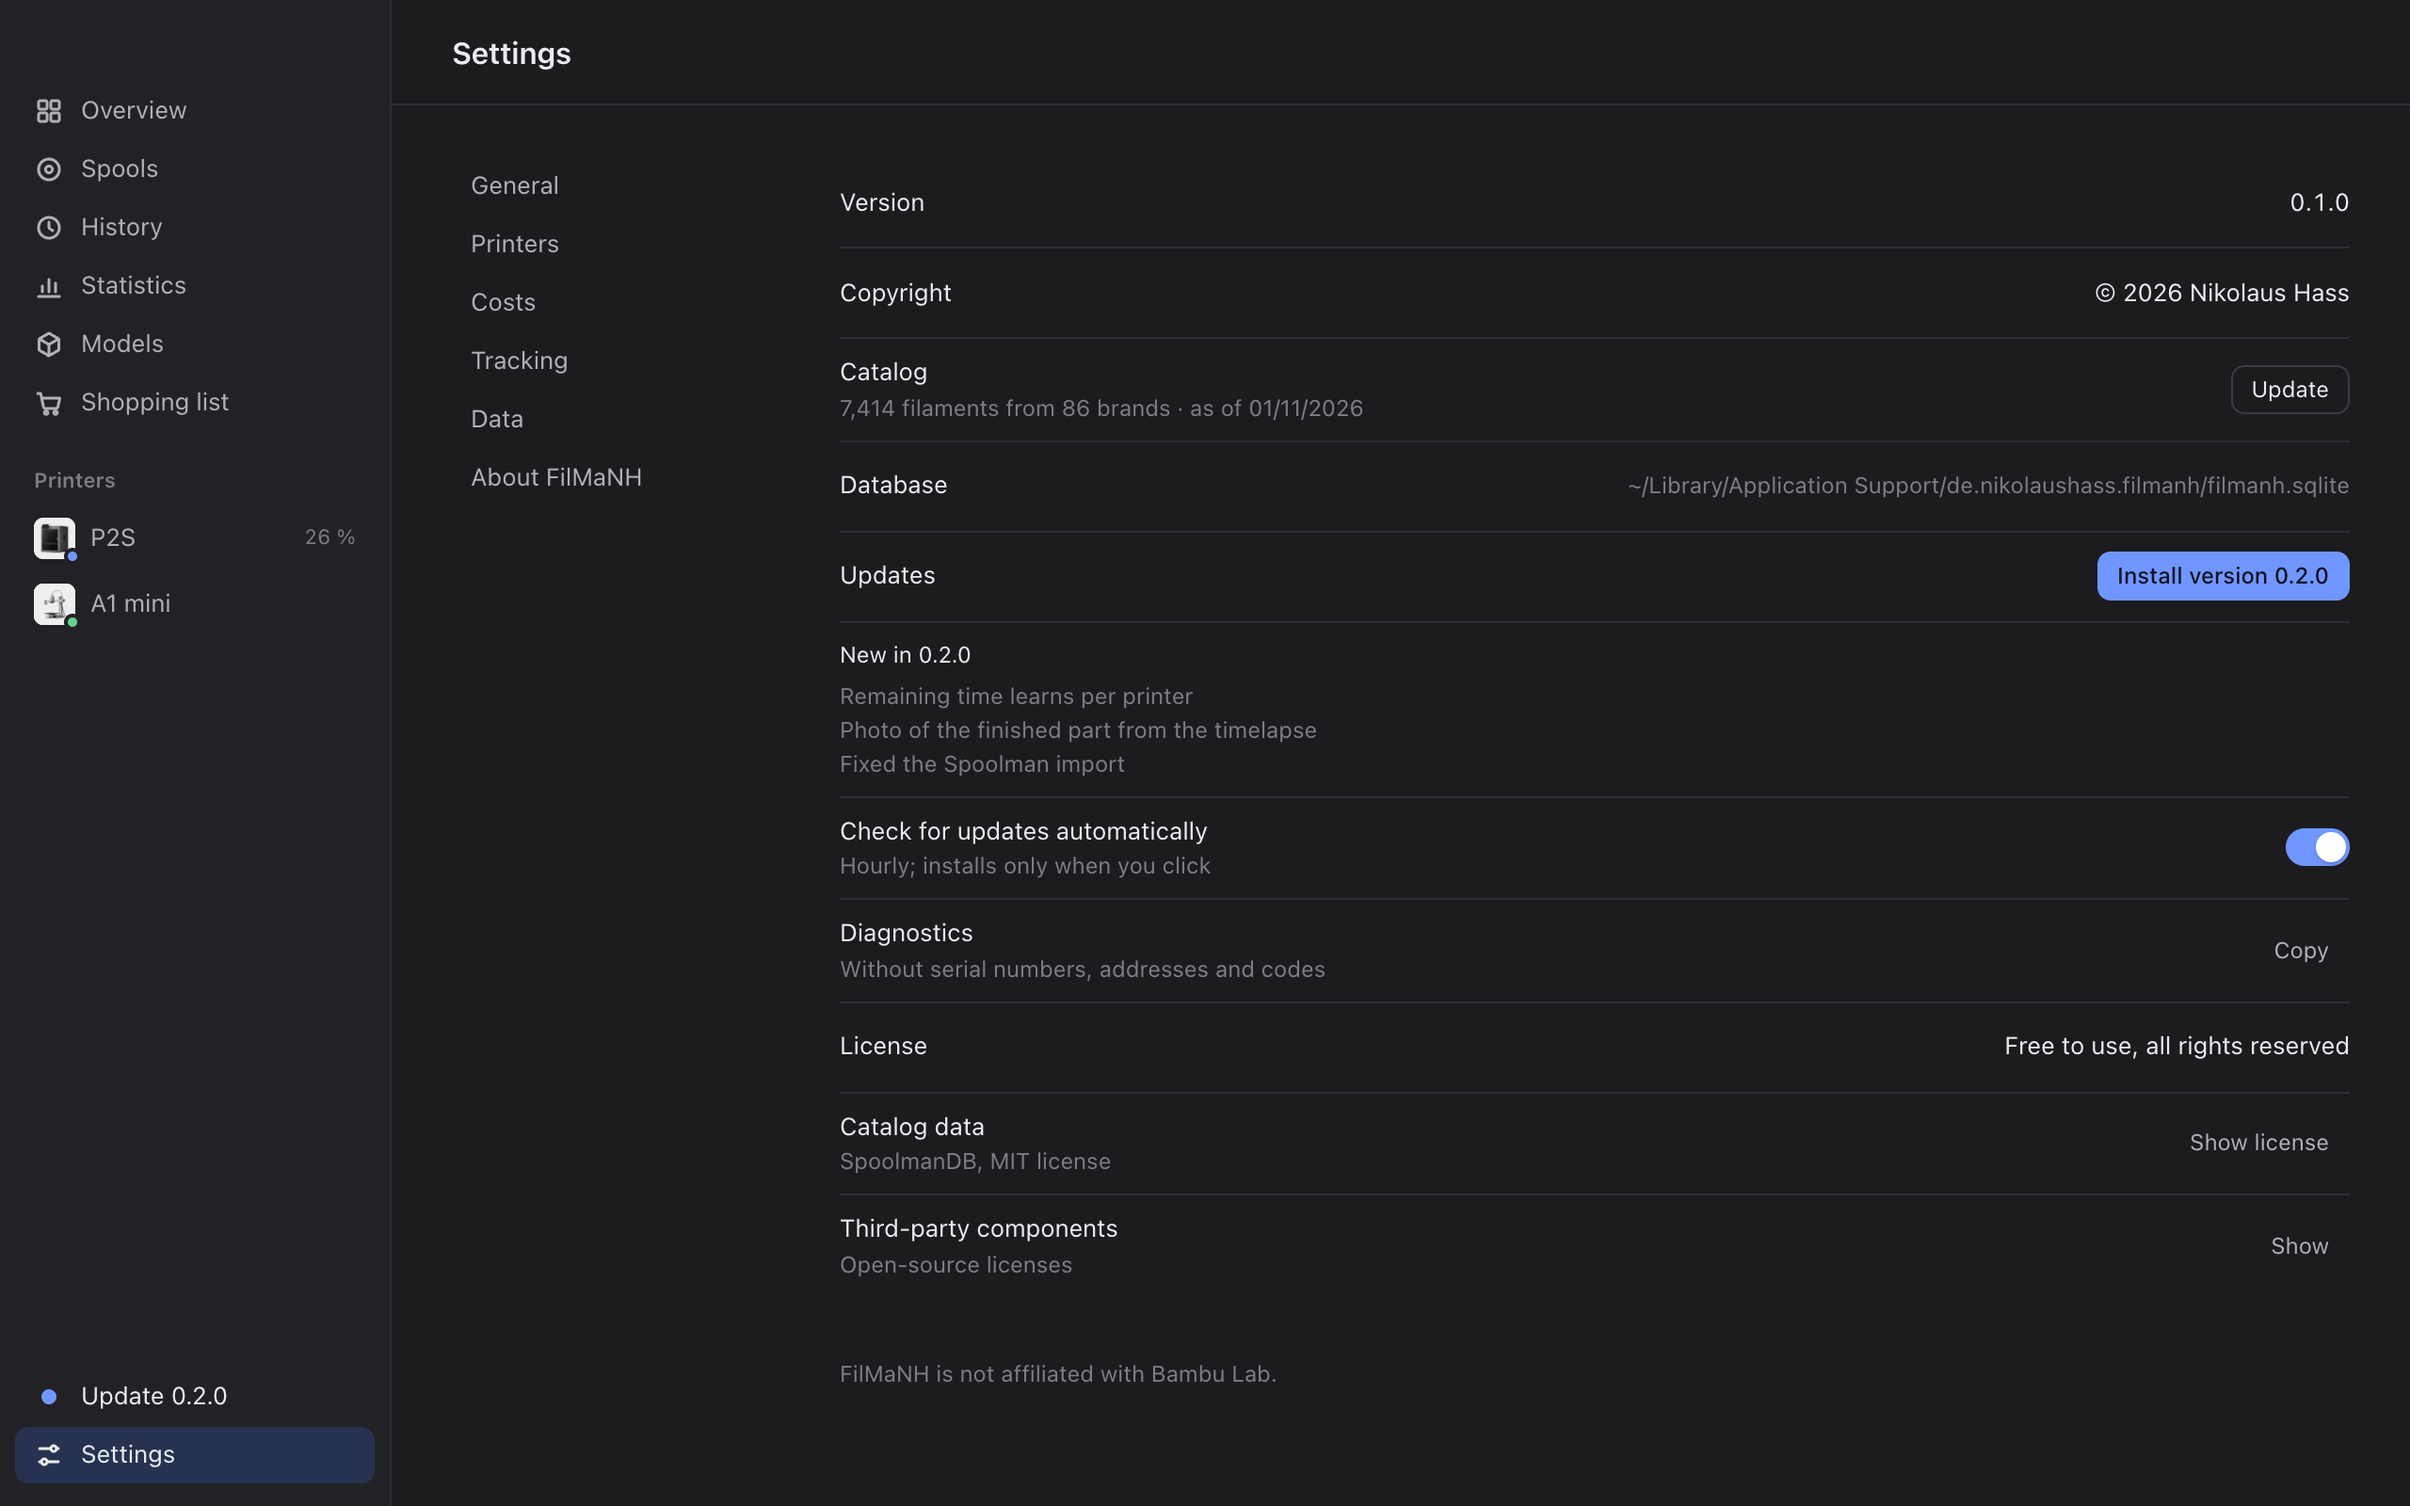
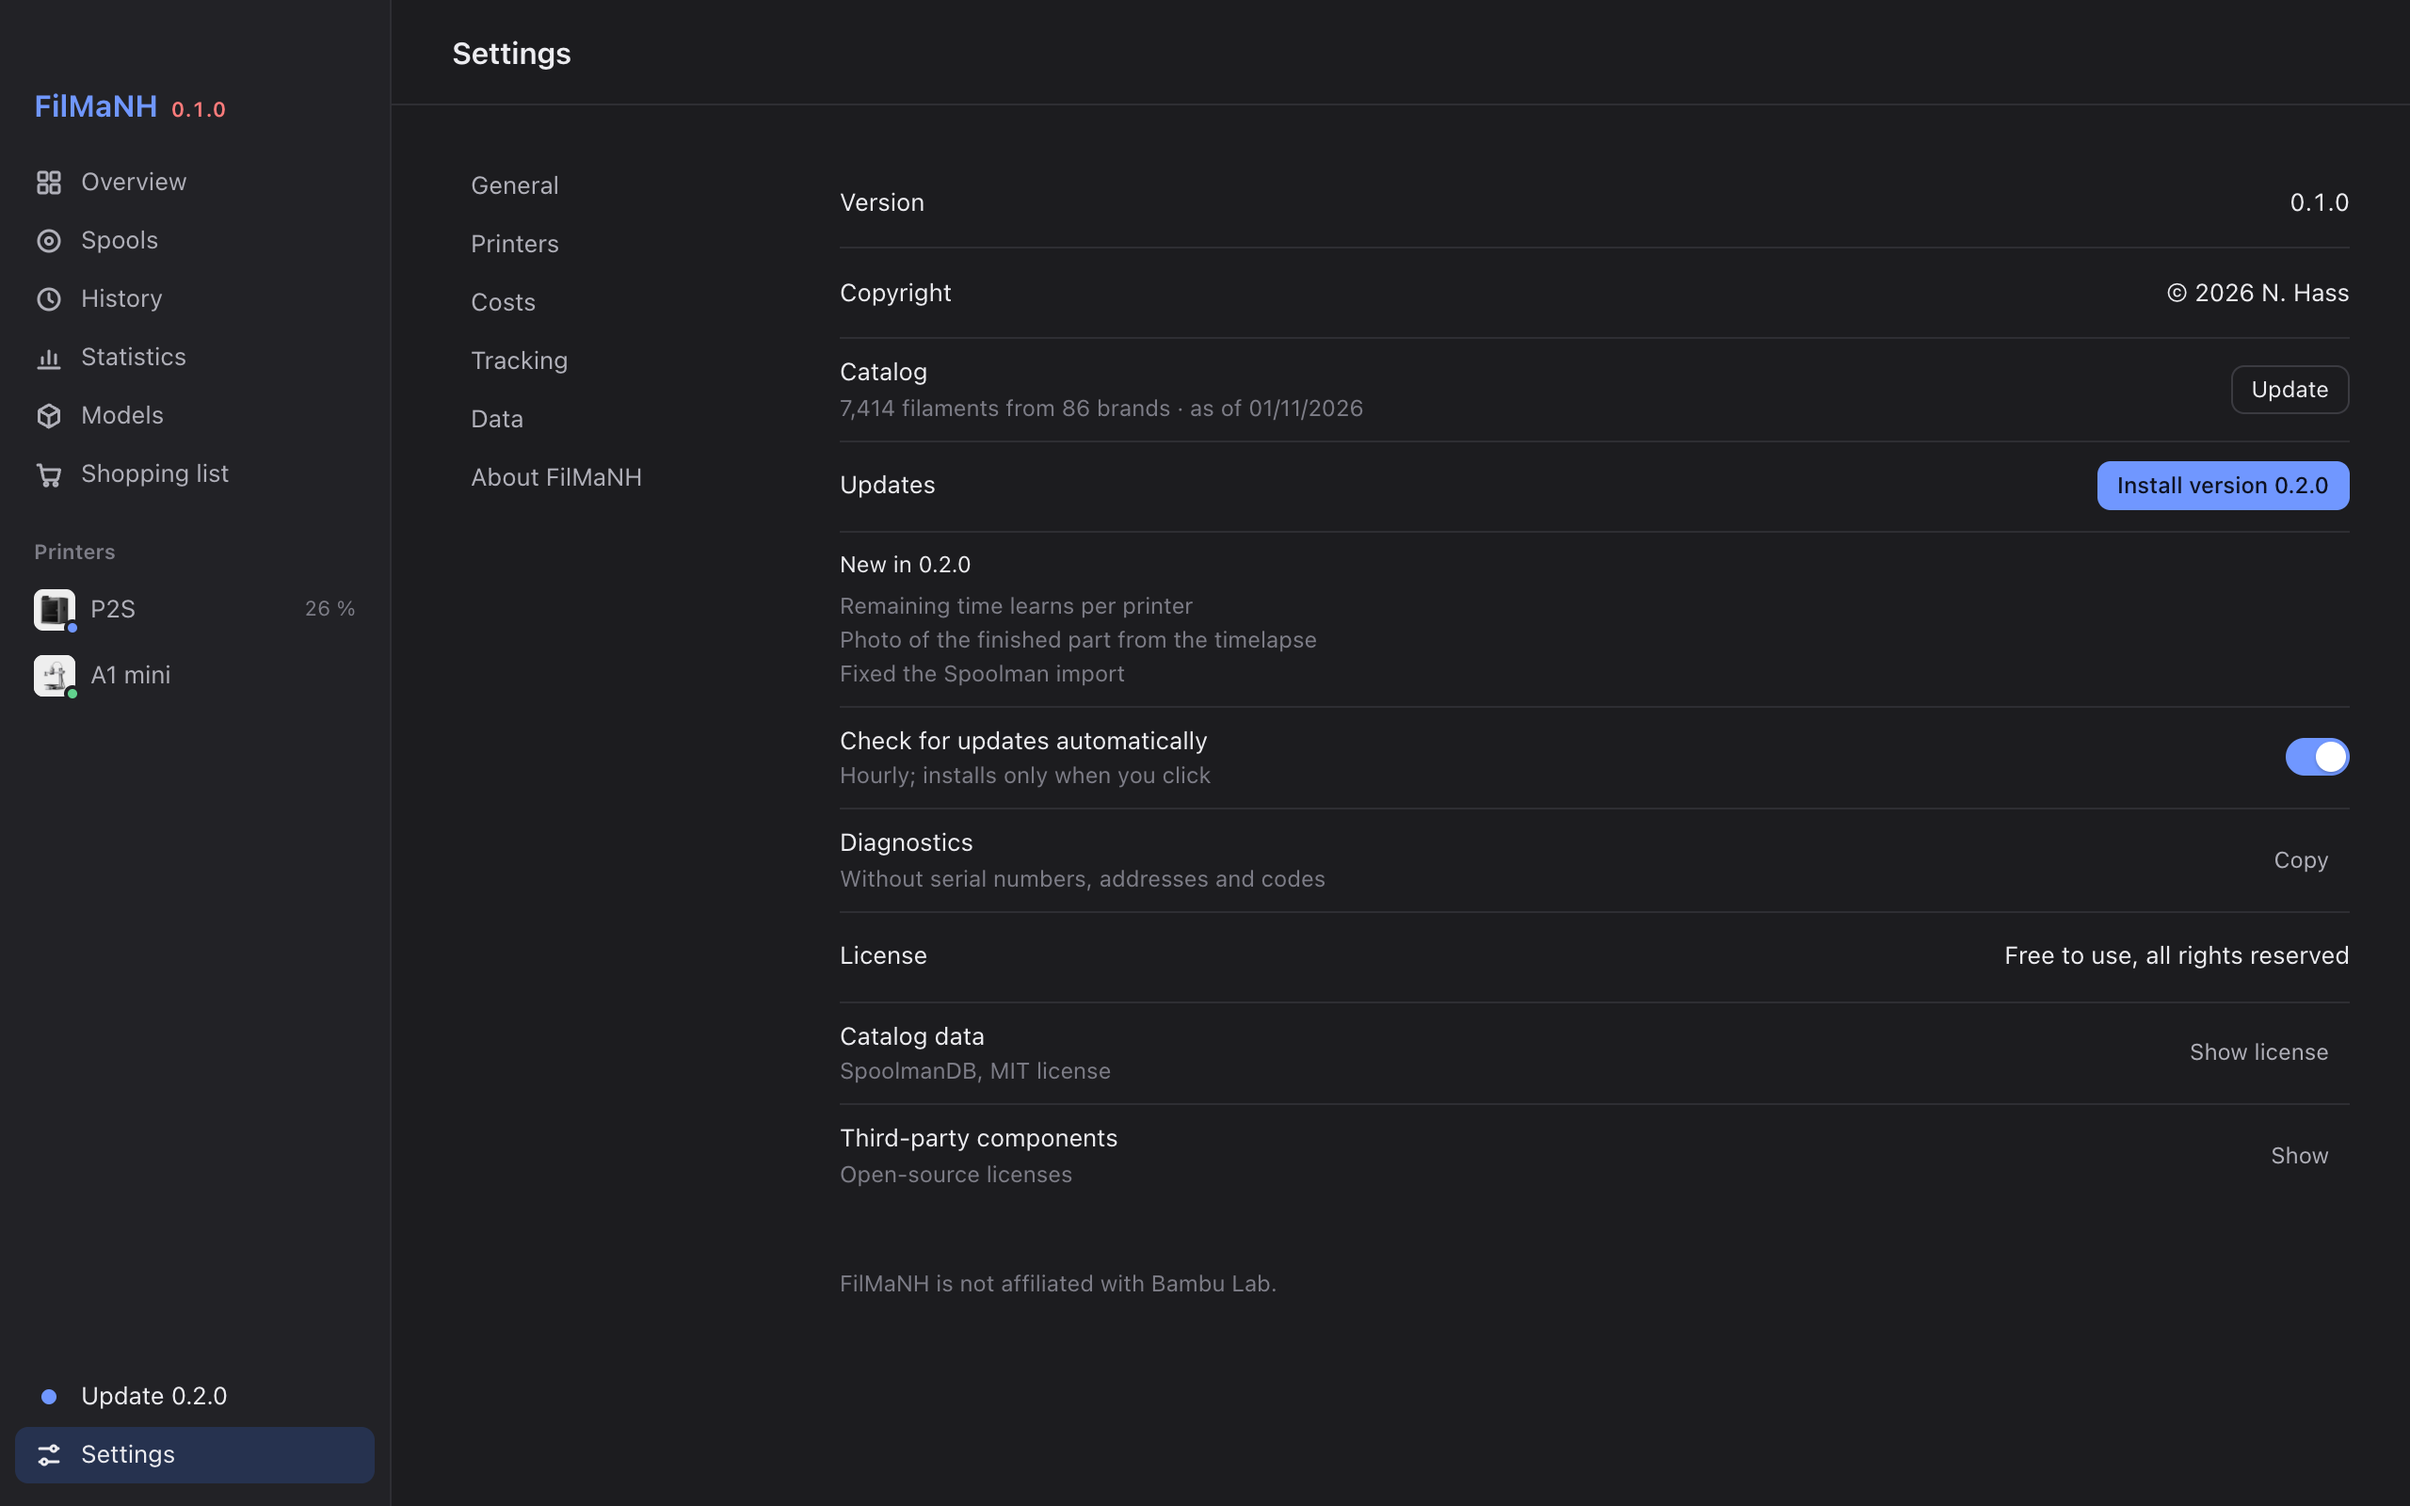
Name: N. Hass; Datenordner ohne Pfad / Name: N. Hass; data folder without path

diff --git a/handbuch/README.md b/handbuch/README.md
@@ -294,8 +294,8 @@ Mit **Mit dem Rechner starten** (Einstellungen › Allgemein) läuft FilMaNH nac
 
 ## 15. Daten und Datenschutz
 
-- Alle Daten liegen auf deinem Rechner, auch Druckdateien, Fotos und Zeitraffer:
-  macOS `~/Library/Application Support/de.nikolaushass.filmanh`, Windows `%APPDATA%\de.nikolaushass.filmanh`.
+- Alle Daten liegen auf deinem Rechner, auch Druckdateien, Fotos und Zeitraffer, im Datenordner der App
+  (Einstellungen › Daten › **Datenordner** › **Öffnen**).
 - Mit **Druckdateien aus Bambu Studio übernehmen** liest FilMaNH die Druckdateien, die Bambu Studio beim Drucken
   auf diesem Rechner ablegt – nichts sonst.
 - Kein Konto, keine Cloud. FilMaNH liest die Drucker nur aus und steuert sie nicht. Zugangscodes liegen im
@@ -328,4 +328,4 @@ hinzufügen.
 
 ---
 
-© 2026 Nikolaus Hass. FilMaNH ist ein unabhängiges Projekt und nicht mit Bambu Lab verbunden.
+© 2026 N. Hass. FilMaNH ist ein unabhängiges Projekt und nicht mit Bambu Lab verbunden.

diff --git a/handbook/README.md b/handbook/README.md
@@ -293,8 +293,8 @@ With **Launch at login** (Settings › General) FilMaNH starts in the background
 
 ## 15. Data and privacy
 
-- All data stays on your computer, including print files, photos and timelapses:
-  macOS `~/Library/Application Support/de.nikolaushass.filmanh`, Windows `%APPDATA%\de.nikolaushass.filmanh`.
+- All data stays on your computer, including print files, photos and timelapses, in the app’s data folder
+  (Settings › Data › **Data folder** › **Open**).
 - With **Take print files from Bambu Studio**, FilMaNH reads the print files Bambu Studio stores while printing on
   this computer – nothing else.
 - No account, no cloud. FilMaNH only reads from the printers and never controls them. Access codes are stored in
@@ -327,4 +327,4 @@ the print details.
 
 ---
 
-© 2026 Nikolaus Hass. FilMaNH is an independent project and not affiliated with Bambu Lab.
+© 2026 N. Hass. FilMaNH is an independent project and not affiliated with Bambu Lab.

diff --git a/README.md b/README.md
@@ -87,7 +87,7 @@ Please open an [issue](https://github.com/NikolausH76/FilMaNH/issues).
 
 ---
 
-© 2026 Nikolaus Hass. Kostenlos nutzbar, alle Rechte vorbehalten; der Quellcode ist nicht öffentlich.
+© 2026 N. Hass. Kostenlos nutzbar, alle Rechte vorbehalten; der Quellcode ist nicht öffentlich.
 *Free to use, all rights reserved; the source code is not public.* ([Lizenz / License](LICENSE.txt))
 
 FilMaNH ist ein unabhängiges Projekt und nicht mit Bambu Lab verbunden. Es nutzt das inoffizielle lokale Protokoll
